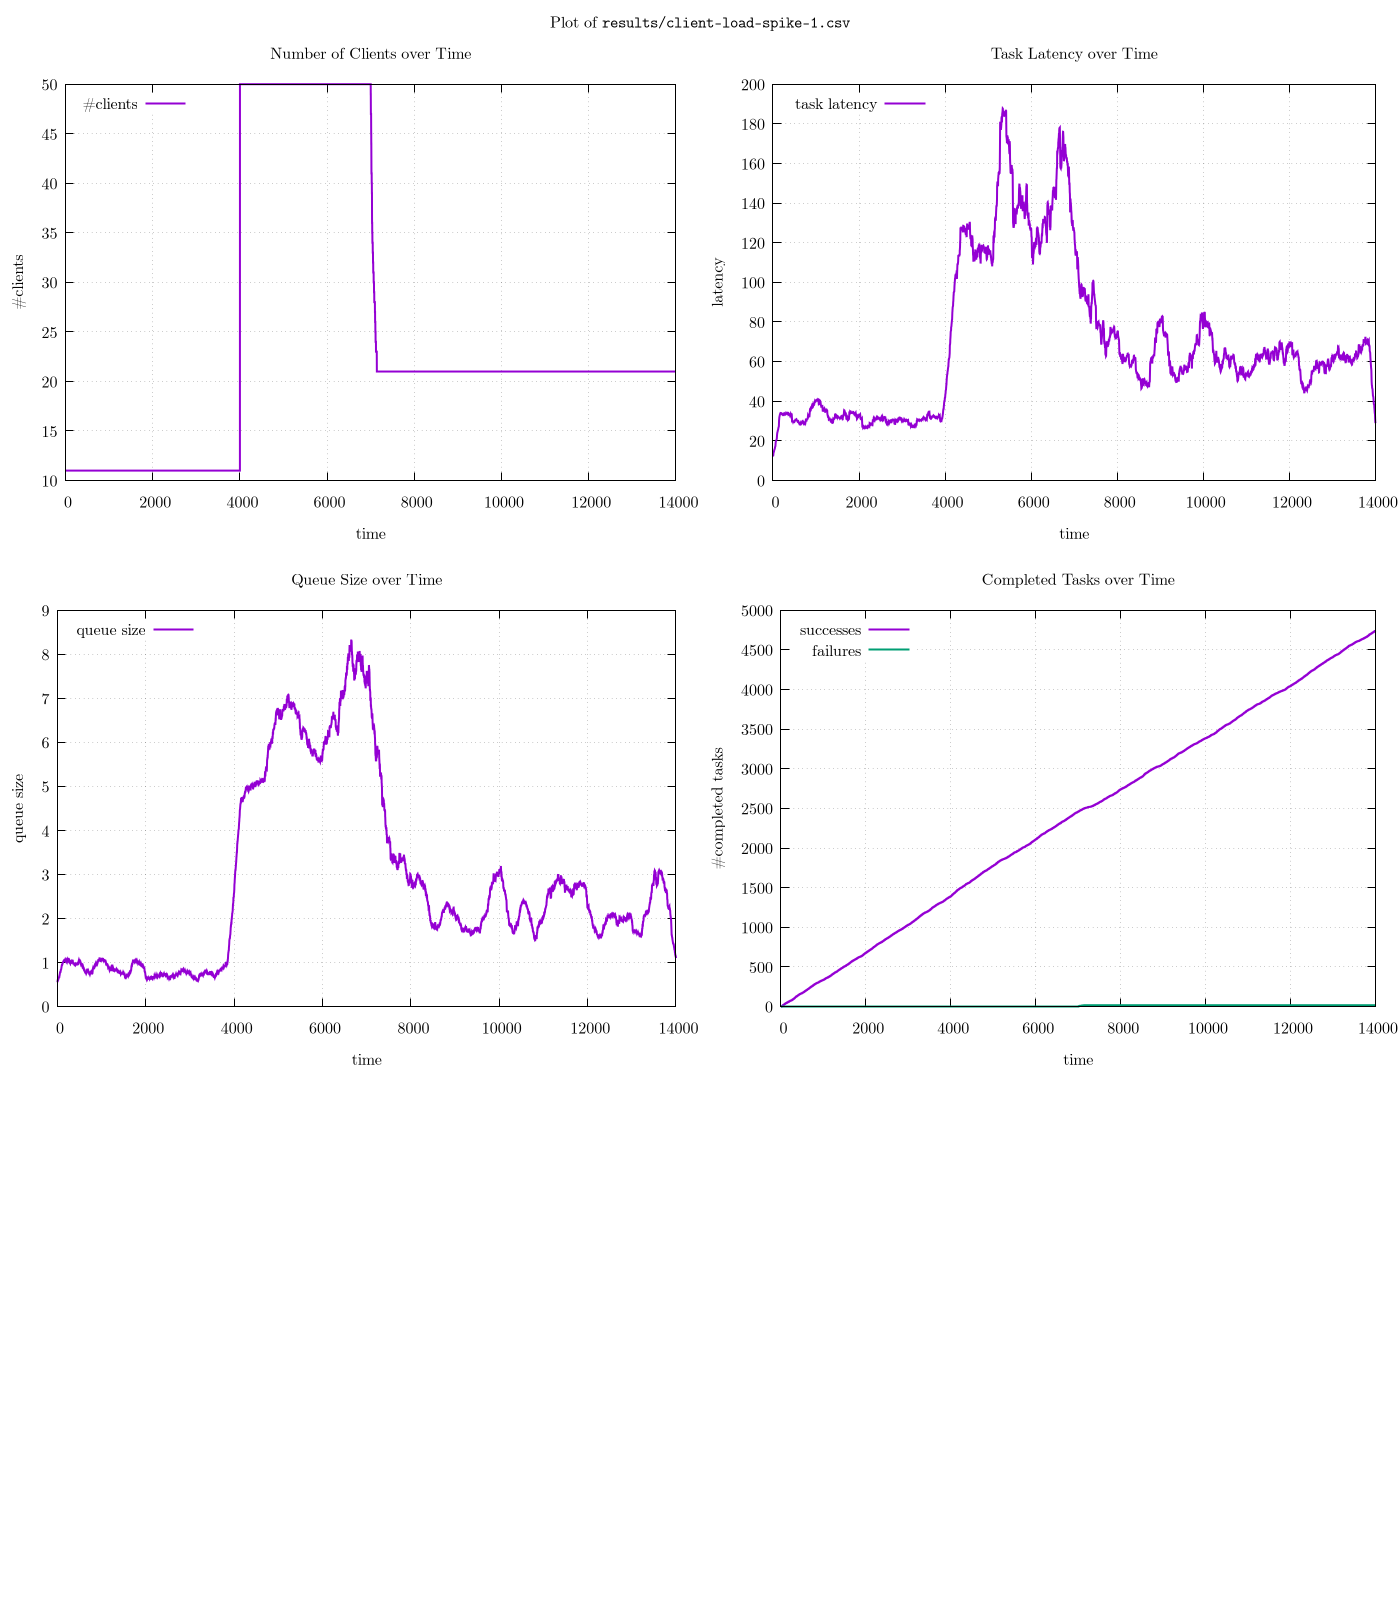
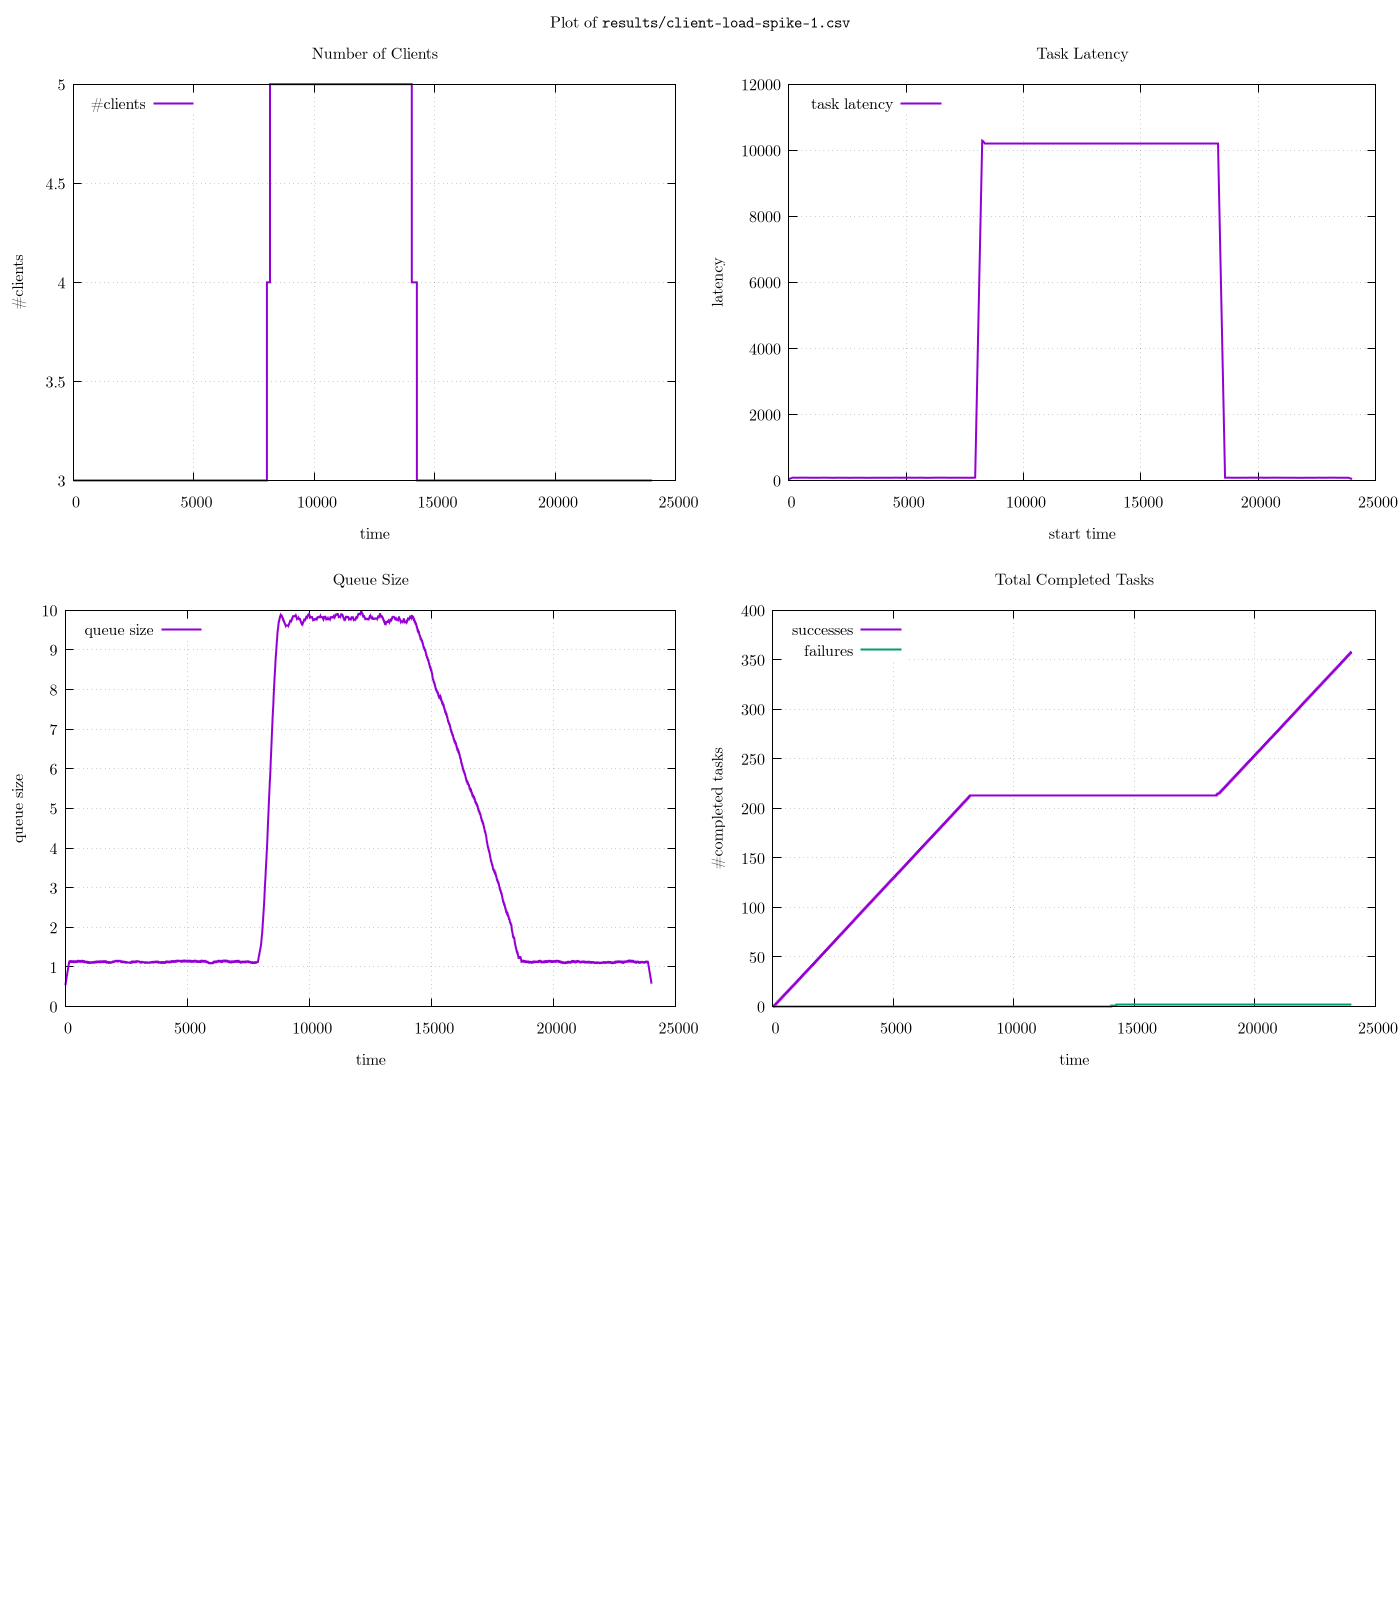
kind of

diff --git a/main.py b/main.py
@@ -511,7 +511,7 @@ class Node:
         self.fuel_per_epoch: int | None = None
         self.unlimited_fuel = False
         self.stopped = False
-        self._detector = _LeakDetector(alpha=0.09, threshold=0.2)
+        self._detector = _LeakDetector(alpha=0.09, threshold=0.1)
         self._addr = None
 
     def run(
@@ -540,7 +540,7 @@ class Node:
         self._detector.update(len(self.inbox))
         if self._detector.is_leaking():
             warnings.warn(f"{self._addr} inbox growing. size={len(self.inbox)}")
-            print(self.inbox)
+            print(self.inbox, self.sm.matcher)
 
     def deliver(self, msg: Message):
         if self.stopped:
@@ -759,6 +759,12 @@ class _FusedRefSelect:
         return MatchResult(matched=False)
 
 
+@dataclass
+class Timeout(TimeoutError):
+    msg: str | None = None
+    is_deadline: bool = False
+
+
 async def ask_timeout(
     timeout: int,
     addr: Addr,
@@ -784,10 +790,10 @@ async def ask_timeout(
         self_node().set_drop_hint(SingleMatcher((result_ref,), {}))
         if result.branch_id == 1:
             self_node().set_drop_hint(SingleMatcher((deadline_ref,), {}))
-            raise TimeoutError(f"Timed out after {timeout} epochs")
+            raise Timeout(f"Timed out after {timeout} epochs")
         else:
             self_node().set_drop_hint(SingleMatcher((sleep_ref,), {}))
-            raise TimeoutError(f"Timed out at deadline epoch {deadline}")
+            raise Timeout(f"Timed out at deadline epoch {deadline}", is_deadline=True)
 
 
 class Loop(Atom): ...
@@ -1069,13 +1075,15 @@ def run_experiment(
     spike_offset: int = 10000,
     spike_duration: int = 3000,
     submit_timeout: int = 30,
+    work_time_range: tuple[int, int] = (5, 20),
+    inter_task_sleep_range: tuple[int, int] = (10, 30),
 ):
     def make_worker(queue: Queue[tuple[Addr, Ref]]):
         @loop
         async def start():
             addr, ref = await queue.dequeue()
             log("start task", ref=ref)
-            await sleep(rng().randrange(5, 20))
+            await sleep(rng().randrange(*work_time_range))
             log("finish task", ref=ref)
             send(addr, ref, Ok, hint="task_finished")
 
@@ -1124,15 +1132,22 @@ def run_experiment(
     ) -> bool:
         submission_id = Ref()
         for try_num in range(n_retries):
+            if deadline is not None and now() >= deadline:
+                log(
+                    "deadline exceeded",
+                    deadline=deadline,
+                    try_num=try_num,
+                    submission_id=submission_id,
+                )
+                return False
             if timeout:
                 try:
                     result = await ask_timeout(
                         timeout,
                         lb_addr,
                         SubmitWork,
-                        deadline=deadline,
                     )
-                except TimeoutError:
+                except Timeout:
                     log(
                         "timeout",
                         after=timeout,
@@ -1146,8 +1161,6 @@ def run_experiment(
                 case Ok():
                     return True
                 case Err():
-                    if deadline and now() >= deadline:
-                        return False
                     await sleep(policy(try_num))
                     log("retry", try_num=try_num, submission_id=submission_id)
                 case _:
@@ -1163,43 +1176,59 @@ def run_experiment(
             deadline=deadline,
         )
         if success:
-            log("finished", latency=now() - start)
+            log("finished", latency=now() - start, start=start)
         else:
             log("failed", latency=now() - start)
 
     clients: list[StateMachineInit] = []
 
+    def make_normal_client(client_ix: int):
+        @launch
+        async def client():
+            log("client started", client_ix=client_ix)
+            while True:
+                await perform_work()
+                await sleep(rng().randrange(*inter_task_sleep_range))
+
+        return client
+
+    def make_spike_client(client_ix: int):
+        @launch
+        async def client():
+            await sleep(spike_offset + rng().randrange(0, 300))
+            log("client started", client_ix=client_ix)
+            while True:
+                await perform_work(
+                    deadline=spike_offset + spike_duration + rng().randrange(0, 300)
+                )
+                if now() >= spike_offset + spike_duration:
+                    break
+                await sleep(rng().randrange(*inter_task_sleep_range))
+            log("client exited", client_ix=client_ix)
+            self_node().stopped = True
+
+        return client
+
+    def make_added_client(client_ix: int):
+        @launch
+        async def client():
+            await sleep(spike_offset + rng().randrange(0, 300))
+            log("client started", client_ix=client_ix)
+            while True:
+                await perform_work()
+                await sleep(rng().randrange(*inter_task_sleep_range))
+
+        return client
+
     for client_ix in range(
         max(num_clients, num_clients_spike, num_clients_after_spike)
     ):
-
-        def make_client(client_ix: int):
-            @launch
-            async def client():
-                if client_ix > num_clients:
-                    await sleep(spike_offset)
-                log("client started", client_ix=client_ix)
-                while True:
-                    if (
-                        client_ix > num_clients_after_spike
-                        and now() >= spike_offset + spike_duration
-                    ):
-                        break
-                    # Ensure that outstanding requests are cancelled after the spike.
-                    # This is needed to correctly simulate clients exiting.
-                    deadline = (
-                        spike_offset + spike_duration + rng().randrange(0, 150)
-                        if now() < spike_offset + spike_duration
-                        and client_ix > num_clients_after_spike
-                        else None
-                    )
-                    await perform_work(deadline=deadline)
-                log("client exited", client_ix=client_ix)
-                self_node().stopped = True
-
-            return client
-
-        clients.append(make_client(client_ix))
+        if client_ix < num_clients:
+            clients.append(make_normal_client(client_ix))
+        elif client_ix < num_clients_after_spike:
+            clients.append(make_added_client(client_ix))
+        elif client_ix < num_clients_spike:
+            clients.append(make_spike_client(client_ix))
 
     event_loop = EventLoop()
     for i, queue_addr in enumerate(queue_addrs):
@@ -1237,7 +1266,7 @@ def analyze_result(result: RunResult):
         task_latency = [
             (t, lt)
             for t, lt in conn.execute(
-                "select epoch, data->>'latency' from log where msg='finished'"
+                "select data->>'start', data->>'latency' from log where msg='finished'"
             ).fetchall()
         ]
         latency_df = pl.DataFrame(task_latency, schema=["time", "value"], orient="row")
@@ -1275,43 +1304,21 @@ def analyze_result(result: RunResult):
         )
 
         successes = [
-            (t,)
+            t
             for (t,) in conn.execute(
                 "select epoch from log where msg='finished'"
             ).fetchall()
         ]
         failures = [
-            (t,)
+            t
             for (t,) in conn.execute(
                 "select epoch from log where msg='failed'"
             ).fetchall()
         ]
-        success_df = pl.DataFrame(successes, schema=["time"], orient="row")
-        failure_df = pl.DataFrame(failures, schema=["time"], orient="row")
-        success_counts = (
-            pl.DataFrame({"time": range(result.num_epochs)})
-            .join(
-                success_df.group_by("time")
-                .agg(pl.count())
-                .rename({"count": "successes"}),
-                on="time",
-                how="left",
-            )
-            .with_columns(pl.col("successes").fill_null(0))
-        )
-        failure_counts = (
-            pl.DataFrame({"time": range(result.num_epochs)})
-            .join(
-                failure_df.group_by("time")
-                .agg(pl.count())
-                .rename({"count": "failures"}),
-                on="time",
-                how="left",
-            )
-            .with_columns(pl.col("failures").fill_null(0))
-        )
-        total_successes = np.cumsum(success_counts["successes"])
-        total_failures = np.cumsum(failure_counts["failures"])
+        success_counts = np.bincount(successes, minlength=result.num_epochs)
+        failure_counts = np.bincount(failures, minlength=result.num_epochs)
+        total_successes = np.cumsum(success_counts)
+        total_failures = np.cumsum(failure_counts)
 
         df = pl.DataFrame(
             {
@@ -1387,17 +1394,23 @@ runner = Runner()
 @runner.trial([1])
 def client_load_spike(_):
     return analyze_result(
+        # 1/20 tps
+        # avg task latency = 6 * 20 = 120
+        # single req rate = 1/(120 + 5)
         run_experiment(
-            num_workers=10,
-            queue_size=30,
-            num_retries=500,
-            num_epochs=14_000,
-            spike_offset=4000,
-            spike_duration=3000,
-            num_clients=10,
-            num_clients_spike=50,
-            num_clients_after_spike=20,
-            submit_timeout=50,
+            num_workers=1,
+            queue_size=10,
+            num_retries=100_000,
+            num_epochs=24_000,
+            spike_offset=8000,
+            spike_duration=6000,
+            num_clients=3,
+            num_clients_spike=5,
+            num_clients_after_spike=3,
+            submit_timeout=120,
+            work_time_range=(33, 37),
+            inter_task_sleep_range=(28, 32),
+            retry_policy=constant_retry(0),
         )
     )
 
